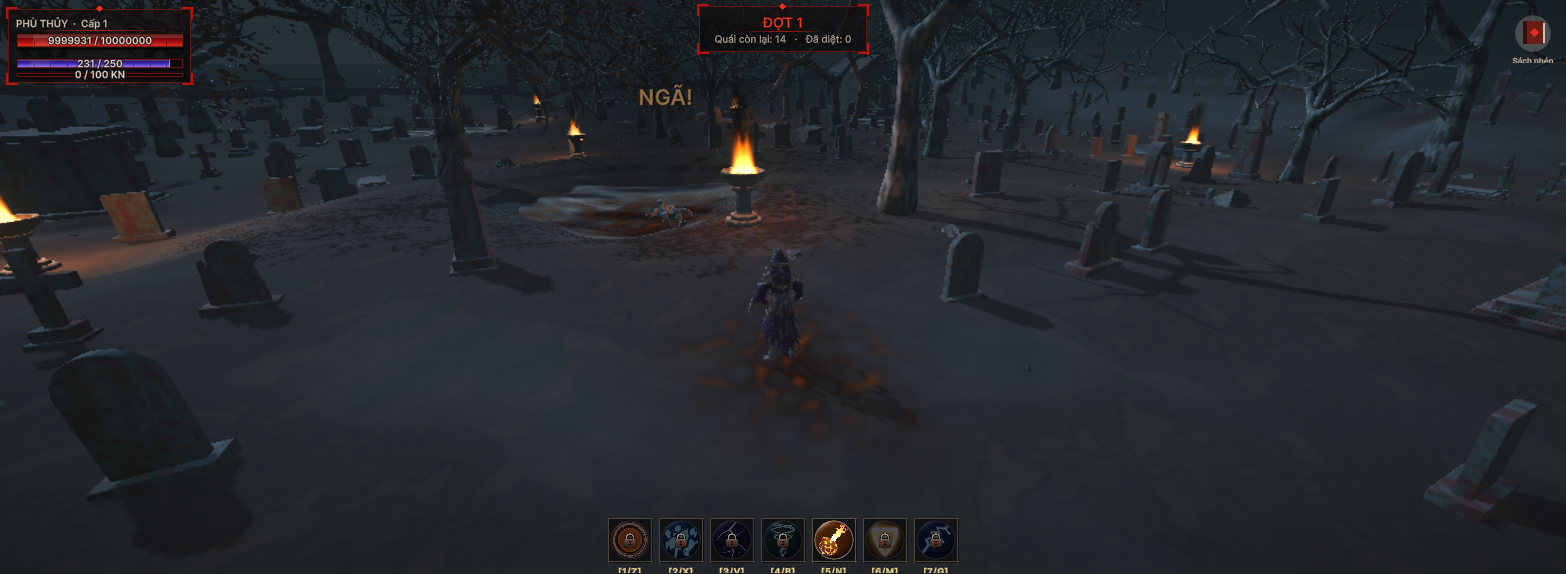
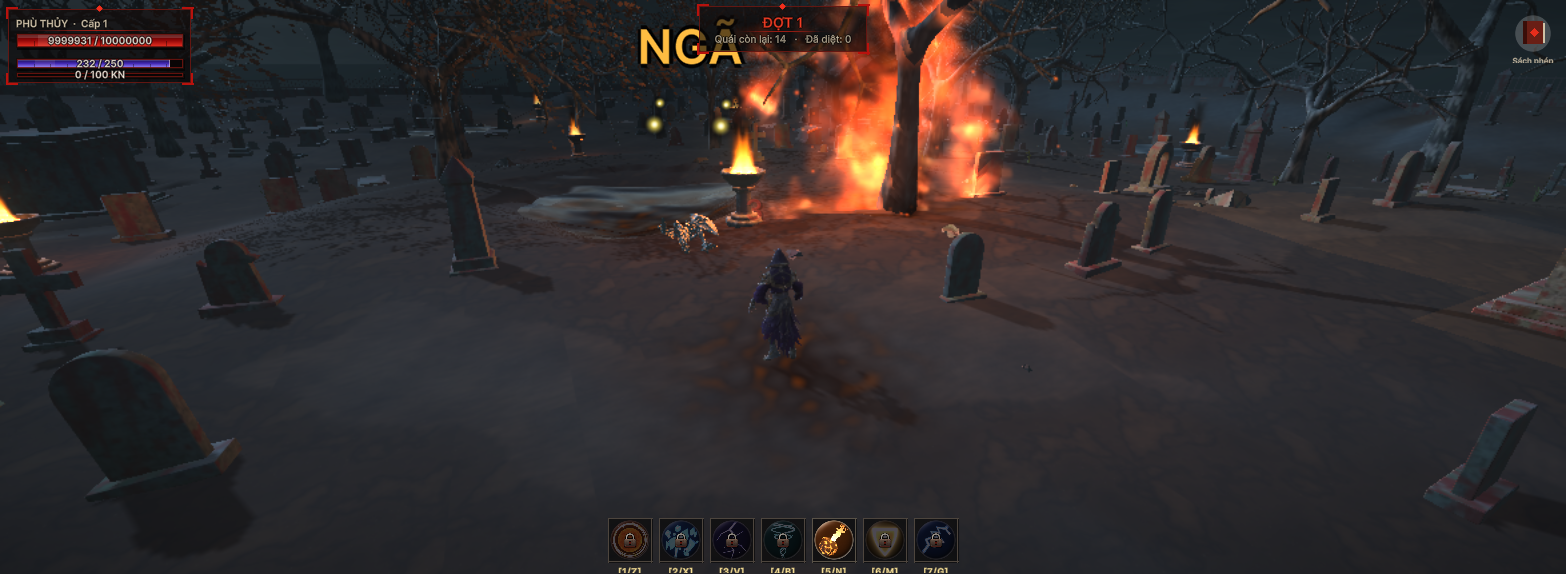
Danh nga nhin thay duoc: dau hieu NGA + vong sao tren dau, lua khong che
Nguoi dung danh rat nhieu lan ma khong thay danh nga. Do duong that (nhan vat
tung thien thach 10 lan vao quai that): trung 10/10, nga 8/10 - hieu ung CO.
Chuoi 5 anh trong 1,5 giay nam cho thay ba qua thien thach no noi nhau phu lua
kin con quai, chu "NGA!" troi mat sau nua giay giua dong so sat thuong.

- Suot luc nga ve chu NGA vien den + vong sao vang xoay tren dau ke bi nga,
  bang OnGUI (lua 3D khong che), o do cao 2,7 m tren cho so sat thuong.
- Menu 62 them phan F: tung thien thach that, dem trung/nga, dem khung hinh
  co dau hieu (98%), chup chuoi anh. 0 loi.

diff --git a/Assets/Scripts/Combat/BiDanhNga.cs b/Assets/Scripts/Combat/BiDanhNga.cs
@@ -1,4 +1,5 @@
 using UnityEngine;
+using System.Collections.Generic;
 
 /// <summary>
 /// TRANG THAI BI DANH NGA (thien thach roi trung).
@@ -21,6 +22,14 @@ using UnityEngine;
 /// Khoa di chuyen va ky nang trong SUOT khoang ay.
 ///
 /// Chay SAU moi script khac (DefaultExecutionOrder) de khong ai ghi de hinh.
+///
+/// DAU HIEU TREN DAU (13/09/2026): nguoi dung danh rat nhieu lan ma "khong thay
+/// hieu ung danh nga". Do bang duong that thi 8/10 lan co nga - nhung chuoi anh
+/// chup trong 1,5 giay nam cho thay ca LOAT BA QUA THIEN THACH no noi nhau phu
+/// lua kin cho con quai suot thoi gian ay, con chu "NGA!" troi mat sau nua giay
+/// giua ca chuc con so sat thuong. Hieu ung co that, nhung khong ai nhin thay.
+/// Nen suot luc nga, tren dau ke bi nga co MOT VONG SAO XOAY va chu NGA vien
+/// den - ve bang OnGUI (<see cref="VeTatCa"/>) nen lua 3D khong the che.
 /// </summary>
 [DefaultExecutionOrder(10000)]
 public class BiDanhNga : MonoBehaviour
@@ -38,6 +47,11 @@ public class BiDanhNga : MonoBehaviour
     const float NangKhiNam = 0.22f;
 
     public bool DangNga { get { return daTroi < thoiGian; } }
+
+    static readonly List<BiDanhNga> dangNga = new List<BiDanhNga>();
+
+    /// <summary>So dau hieu da ve o luot Repaint gan nhat - phep thu (menu 62) doc.</summary>
+    public static int SoDauVeLanCuoi { get; private set; }
 
     Transform hinh;
     Vector3 posGoc;
@@ -67,8 +81,8 @@ public class BiDanhNga : MonoBehaviour
             n = d.gameObject.AddComponent<BiDanhNga>();
             n.thoiGian = giay;
             n.daTroi = 0f;
-            DamagePopup.SpawnText(d.transform.position + Vector3.up * 2.1f, "NGÃ!",
-                                  new Color(1f, 0.72f, 0.40f));
+            // Khong tha chu "NGA!" troi len nua: no troi mat sau nua giay giua
+            // dong so sat thuong. Dau hieu bam tren dau (VeTatCa) thay the.
             if (d.anim != null) d.anim.PlayHit();
         }
         else
@@ -77,6 +91,14 @@ public class BiDanhNga : MonoBehaviour
         }
         return n;
     }
+
+    void OnEnable()
+    {
+        dangNga.Add(this);
+        VeSoSatThuong.DamBao();         // lop OnGUI ve dau hieu
+    }
+
+    void OnDisable() { dangNga.Remove(this); }
 
     void Awake()
     {
@@ -126,6 +148,102 @@ public class BiDanhNga : MonoBehaviour
         }
 
         if (!DangNga) Destroy(this);
+    }
+
+    // ================================================================
+    //  DAU HIEU TREN DAU - ve bang OnGUI, lua 3D khong che duoc
+    // ================================================================
+
+    static Texture2D dom;
+
+    static Texture2D Dom
+    {
+        get
+        {
+            if (dom != null) return dom;
+            const int n = 32;
+            dom = new Texture2D(n, n, TextureFormat.RGBA32, false);
+            dom.wrapMode = TextureWrapMode.Clamp;
+            var px = new Color[n * n];
+            for (int y = 0; y < n; y++)
+                for (int x = 0; x < n; x++)
+                {
+                    float dx = (x + 0.5f) / n - 0.5f, dy = (y + 0.5f) / n - 0.5f;
+                    float r = Mathf.Sqrt(dx * dx + dy * dy) * 2f;         // 0 o tam, 1 o mep
+                    float a = Mathf.Clamp01(1f - r);
+                    px[y * n + x] = new Color(1f, 1f, 1f, a * a * (3f - 2f * a));
+                }
+            dom.SetPixels(px);
+            dom.Apply(false, false);
+            return dom;
+        }
+    }
+
+    /// <summary>
+    /// Ve vong sao xoay + chu NGA tren dau MOI ke dang bi nga. Goi tu
+    /// VeSoSatThuong.OnGUI, SAU con so sat thuong de dau hieu nam tren cung.
+    /// </summary>
+    internal static void VeTatCa(Camera cam, GUIStyle kieu)
+    {
+        int so = 0;
+        float H = Screen.height;
+        var mauCu = GUI.color;
+
+        for (int i = 0; i < dangNga.Count; i++)
+        {
+            var n = dangNga[i];
+            if (n == null || !n.DangNga || n.target == null || n.target.IsDead) continue;
+
+            // 2,7 m: CAO HON cho so sat thuong hien ra (2,1 m) - dat thap hon thi
+            // ca chuc con so bay len de kin chu NGA.
+            Vector3 w = n.transform.position + Vector3.up * 2.7f;
+            Vector3 man = cam.WorldToScreenPoint(w);
+            if (man.z <= 0f) continue;
+
+            // Ti le theo phoi canh: bao nhieu diem anh cho mot met o cho ay
+            float pxMoiMet = Mathf.Abs(cam.WorldToScreenPoint(w + Vector3.up).y - man.y);
+            float rx = Mathf.Clamp(0.80f * pxMoiMet, 22f, 110f);
+            float ry = rx * 0.32f;
+            var tam = new Vector2(man.x, H - man.y);
+
+            // Hien ro trong nua giay dau, mo dan luc dung day
+            float conLai = n.thoiGian - n.daTroi;
+            float alpha = Mathf.Clamp01(conLai / BiDanhNga.TgDay) * Mathf.Clamp01(n.daTroi / 0.08f);
+
+            // Bon dom sao xoay quanh dau - dom phia truoc (gan camera) to hon
+            for (int k = 0; k < 4; k++)
+            {
+                float g = Time.time * 5.2f + k * Mathf.PI * 0.5f;
+                float truoc = Mathf.Sin(g);                                  // -1 sau, +1 truoc
+                float kt = rx * (0.36f + 0.14f * truoc);
+                var p = new Vector2(tam.x + Mathf.Cos(g) * rx, tam.y + truoc * ry);
+
+                GUI.color = new Color(0f, 0f, 0f, 0.55f * alpha);            // quang toi de noi tren lua
+                GUI.DrawTexture(new Rect(p.x - kt * 0.9f, p.y - kt * 0.9f, kt * 1.8f, kt * 1.8f), Dom);
+                GUI.color = new Color(1f, 0.90f, 0.35f, alpha);
+                GUI.DrawTexture(new Rect(p.x - kt * 0.5f, p.y - kt * 0.5f, kt, kt), Dom);
+                GUI.color = new Color(1f, 1f, 0.92f, alpha);
+                GUI.DrawTexture(new Rect(p.x - kt * 0.22f, p.y - kt * 0.22f, kt * 0.44f, kt * 0.44f), Dom);
+            }
+
+            // Chu NGA ngay tren vong sao, vien den bon phia
+            int co = Mathf.Clamp(Mathf.RoundToInt(rx * 1.0f / 2f) * 2, 18, 72);
+            kieu.fontSize = co;
+            var o = new Rect(tam.x - 120f, tam.y - ry - co * 1.9f, 240f, co * 1.6f);
+            float vien = Mathf.Max(1.5f, co * 0.08f);
+            kieu.normal.textColor = new Color(0f, 0f, 0f, 0.9f * alpha);
+            GUI.Label(new Rect(o.x - vien, o.y, o.width, o.height), "NGÃ", kieu);
+            GUI.Label(new Rect(o.x + vien, o.y, o.width, o.height), "NGÃ", kieu);
+            GUI.Label(new Rect(o.x, o.y - vien, o.width, o.height), "NGÃ", kieu);
+            GUI.Label(new Rect(o.x, o.y + vien, o.width, o.height), "NGÃ", kieu);
+            kieu.normal.textColor = new Color(1f, 0.74f, 0.28f, alpha);
+            GUI.Label(o, "NGÃ", kieu);
+
+            so++;
+        }
+
+        GUI.color = mauCu;
+        SoDauVeLanCuoi = so;
     }
 
     void OnDestroy()

diff --git a/Assets/Editor/ThuDanhNga.cs b/Assets/Editor/ThuDanhNga.cs
@@ -288,6 +288,85 @@ public static class ThuDanhNga
         yield return new WaitForSeconds(1.2f);
 
         // ================================================================
+        // F. DUONG THAT: NHAN VAT TUNG THIEN THACH, QUA ROI TRUNG QUAI THAT
+        // ================================================================
+        //
+        // Nguoi dung bao (13/09/2026): danh rat nhieu lan ma khong lan nao thay
+        // nga. Cac phan tren goi THANG BiDanhNga.Apply va chi DOC tham so qua
+        // thien thach - chua lan nao cho mot qua that roi trung mot con quai
+        // that roi dem. Phan nay lam dung viec nguoi choi lam.
+        Ghi("");
+        Ghi("F. tung thien thach that 10 lan vao mot con quai that");
+        {
+            var qf = quai[3];
+            int soTrungF = 0, soNgaF = 0, soTungF = 0;
+            int khungNga = 0, khungCoDau = 0;
+            bool daChupF = false;
+            for (int lan = 0; lan < 10; lan++)
+            {
+                var cuF = qf.GetComponent<BiDanhNga>(); if (cuF != null) Object.DestroyImmediate(cuF);
+                var chayF = qf.GetComponent<BurningEffect>(); if (chayF != null) Object.DestroyImmediate(chayF);
+                foreach (var v in Object.FindObjectsByType<VungLua>(FindObjectsSortMode.None)) Object.Destroy(v.gameObject);
+
+                Vector3 hf = pc.transform.forward; hf.y = 0f; hf.Normalize();
+                Vector3 cf = pc.transform.position + hf * 8f;
+                qf.transform.position = new Vector3(cf.x, VfxFactory.GroundY(cf), cf.z);
+                qf.maxHealth = 1e7f; qf.health = 1e7f;
+                Physics.SyncTransforms();
+                yield return new WaitForSeconds(2.2f);            // het hoi chieu 2 giay
+
+                float mauTruocF = qf.health;
+                pc.mana = pc.maxMana;
+                int truocPhep = 0;
+                System.Action<int, Vector3> demF = (a, b) => truocPhep++;
+                pc.DaTungPhep += demF;
+                pc.CastAt(4, qf.transform.position);
+                pc.DaTungPhep -= demF;
+                if (truocPhep > 0) soTungF++;
+
+                bool ngaLanNay = false;
+                float hanF = Time.time + 3.5f;
+                while (Time.time < hanF)
+                {
+                    var bnF = qf.GetComponent<BiDanhNga>();
+                    if (bnF != null)
+                    {
+                        ngaLanNay = true;
+                        khungNga++;
+                        if (BiDanhNga.SoDauVeLanCuoi > 0) khungCoDau++;
+                        // Chuoi anh trong suot luc nam - de biet lua no che toi giay thu may
+                        if (!daChupF)
+                        {
+                            daChupF = true;
+                            float[] moc = { 0.25f, 0.6f, 0.95f, 1.2f, 1.4f };
+                            for (int m = 0; m < moc.Length; m++)
+                            {
+                                while (bnF != null && bnF.daTroi < moc[m]) yield return null;
+                                yield return Chup("danhnga_3_chuoi_" + m + "_" + moc[m].ToString("0.00"));
+                            }
+                        }
+                    }
+                    yield return null;
+                }
+                if (qf.health < mauTruocF - 1f) soTrungF++;
+                if (ngaLanNay) soNgaF++;
+                Ghi("    lan " + (lan + 1) + ": tung " + (truocPhep > 0) + ", trung " + (qf.health < mauTruocF - 1f)
+                    + " (mat " + (mauTruocF - qf.health).ToString("F0") + " mau), bi nga " + ngaLanNay);
+            }
+            Ghi("F1. tung " + soTungF + "/10, trung " + soTrungF + "/10, bi nga " + soNgaF + "/10"
+                + " (moi lan 3 qua x 40% -> mong doi ~78% so lan co it nhat mot lan nga)");
+            Kiem(soTungF == 10, "nhan vat khong tung du 10 lan - phep do hong");
+            Kiem(soTrungF >= 8, "thien thach khong trung quai - phep do hong");
+            Kiem(soNgaF >= 4, "thien thach THAT roi trung quai that ma gan nhu khong bao gio danh nga");
+
+            // Dau hieu tren dau phai hien SUOT luc nga (lua 3D che kin con quai)
+            float tiLeDau = khungNga > 0 ? 100f * khungCoDau / khungNga : 0f;
+            Ghi("F2. dau hieu vong sao + chu NGA tren dau: hien " + khungCoDau + "/" + khungNga
+                + " khung hinh dang nga (" + tiLeDau.ToString("F0") + "%)");
+            Kiem(tiLeDau > 90f, "dang nga ma khong ve dau hieu tren dau - nguoi choi khong nhin thay");
+        }
+
+        // ================================================================
         // E. QUA MANG
         // ================================================================
         Ghi("");

diff --git a/Assets/Scripts/Combat/VeSoSatThuong.cs b/Assets/Scripts/Combat/VeSoSatThuong.cs
@@ -53,5 +53,8 @@ public class VeSoSatThuong : MonoBehaviour
         // HUD dung do sau 0.
         GUI.depth = 10;
         DamagePopup.VeTatCa(cam, kieu);
+
+        // Dau hieu BI DANH NGA ve SAU con so - nam tren cung, khong bi so che
+        BiDanhNga.VeTatCa(cam, kieu);
     }
 }

diff --git a/HUONG-DAN.md b/HUONG-DAN.md
@@ -8314,6 +8314,26 @@ Inter, chữ thành "CHOÁNG!", "BỊ CUỐN!", "NGÃ!".
 | Người chơi bị ngã | đẩy cần 0,6 giây đi **0,00 m**, bấm phép ra **0**, báo "BẠN ĐANG BỊ HẤT NGÃ!" |
 | Qua mạng | bit "đang ngã" được gửi; bản sao không tự gieo; gói tới thì ngã, gói ngừng thì tự đứng dậy |
 
+### "Đánh rất nhiều lần mà không thấy đánh ngã" (13/09/2026)
+
+**Anh báo:** tự thử Thiên thạch vào quái và người chơi khác rất nhiều lần, không lần nào thấy hiệu ứng đánh ngã.
+
+**Phép thử lần trước có lỗ hổng:** nó gọi thẳng hiệu ứng ngã và chỉ đọc tham số của quả thiên thạch — chưa lần
+nào cho **một quả thật rơi trúng một con quái thật** rồi đếm. Phần F mới làm đúng việc anh làm: nhân vật tung
+Thiên thạch 10 lần vào một con quái. Kết quả: **10/10 trúng, 8/10 bị ngã** — đúng mức ~78% (mỗi lần 3 quả, mỗi quả
+gieo riêng 40%). Hiệu ứng **có xảy ra**.
+
+**Nguyên nhân thật — không nhìn thấy:** chụp 5 ảnh trong suốt 1,5 giây nằm (0,25 · 0,60 · 0,95 · 1,20 · 1,40 s):
+**ba quả thiên thạch nổ nối nhau** phủ lửa kín chỗ con quái ở mọi thời điểm, còn chữ "NGÃ!" trôi lên mất sau nửa
+giây giữa cả chục con số sát thương. Anh không thấy là đúng.
+
+**Sửa** (giữ nguyên 40% và 1,5 giây anh chốt): suốt lúc bị ngã, trên đầu kẻ bị ngã có **chữ NGÃ viền đen và vòng
+sao vàng xoay**, vẽ ở **lớp giao diện** (OnGUI) nên lửa 3D không che được, đặt ở độ cao 2,7 m — **cao hơn chỗ số
+sát thương hiện ra** (2,1 m) để số không đè lên chữ. Bỏ chữ "NGÃ!" trôi cũ.
+
+**Số đo** (menu 62, 0 lỗi): tung thật 10 lần → trúng 10, ngã 7; dấu hiệu hiện **376/383 khung hình đang ngã (98%)**;
+chuỗi ảnh mới thấy chữ NGÃ rõ ở cả 5 thời điểm, đè lên lửa.
+
 ### Luật đợt quái Act2: chờ 30 giây, và thêm 10 con ở xa
 
 - **Vào trận chờ đúng 30 giây** mới ra đợt đầu (trước đây 1,5 giây chơi một mình / 6 giây chơi mạng).
